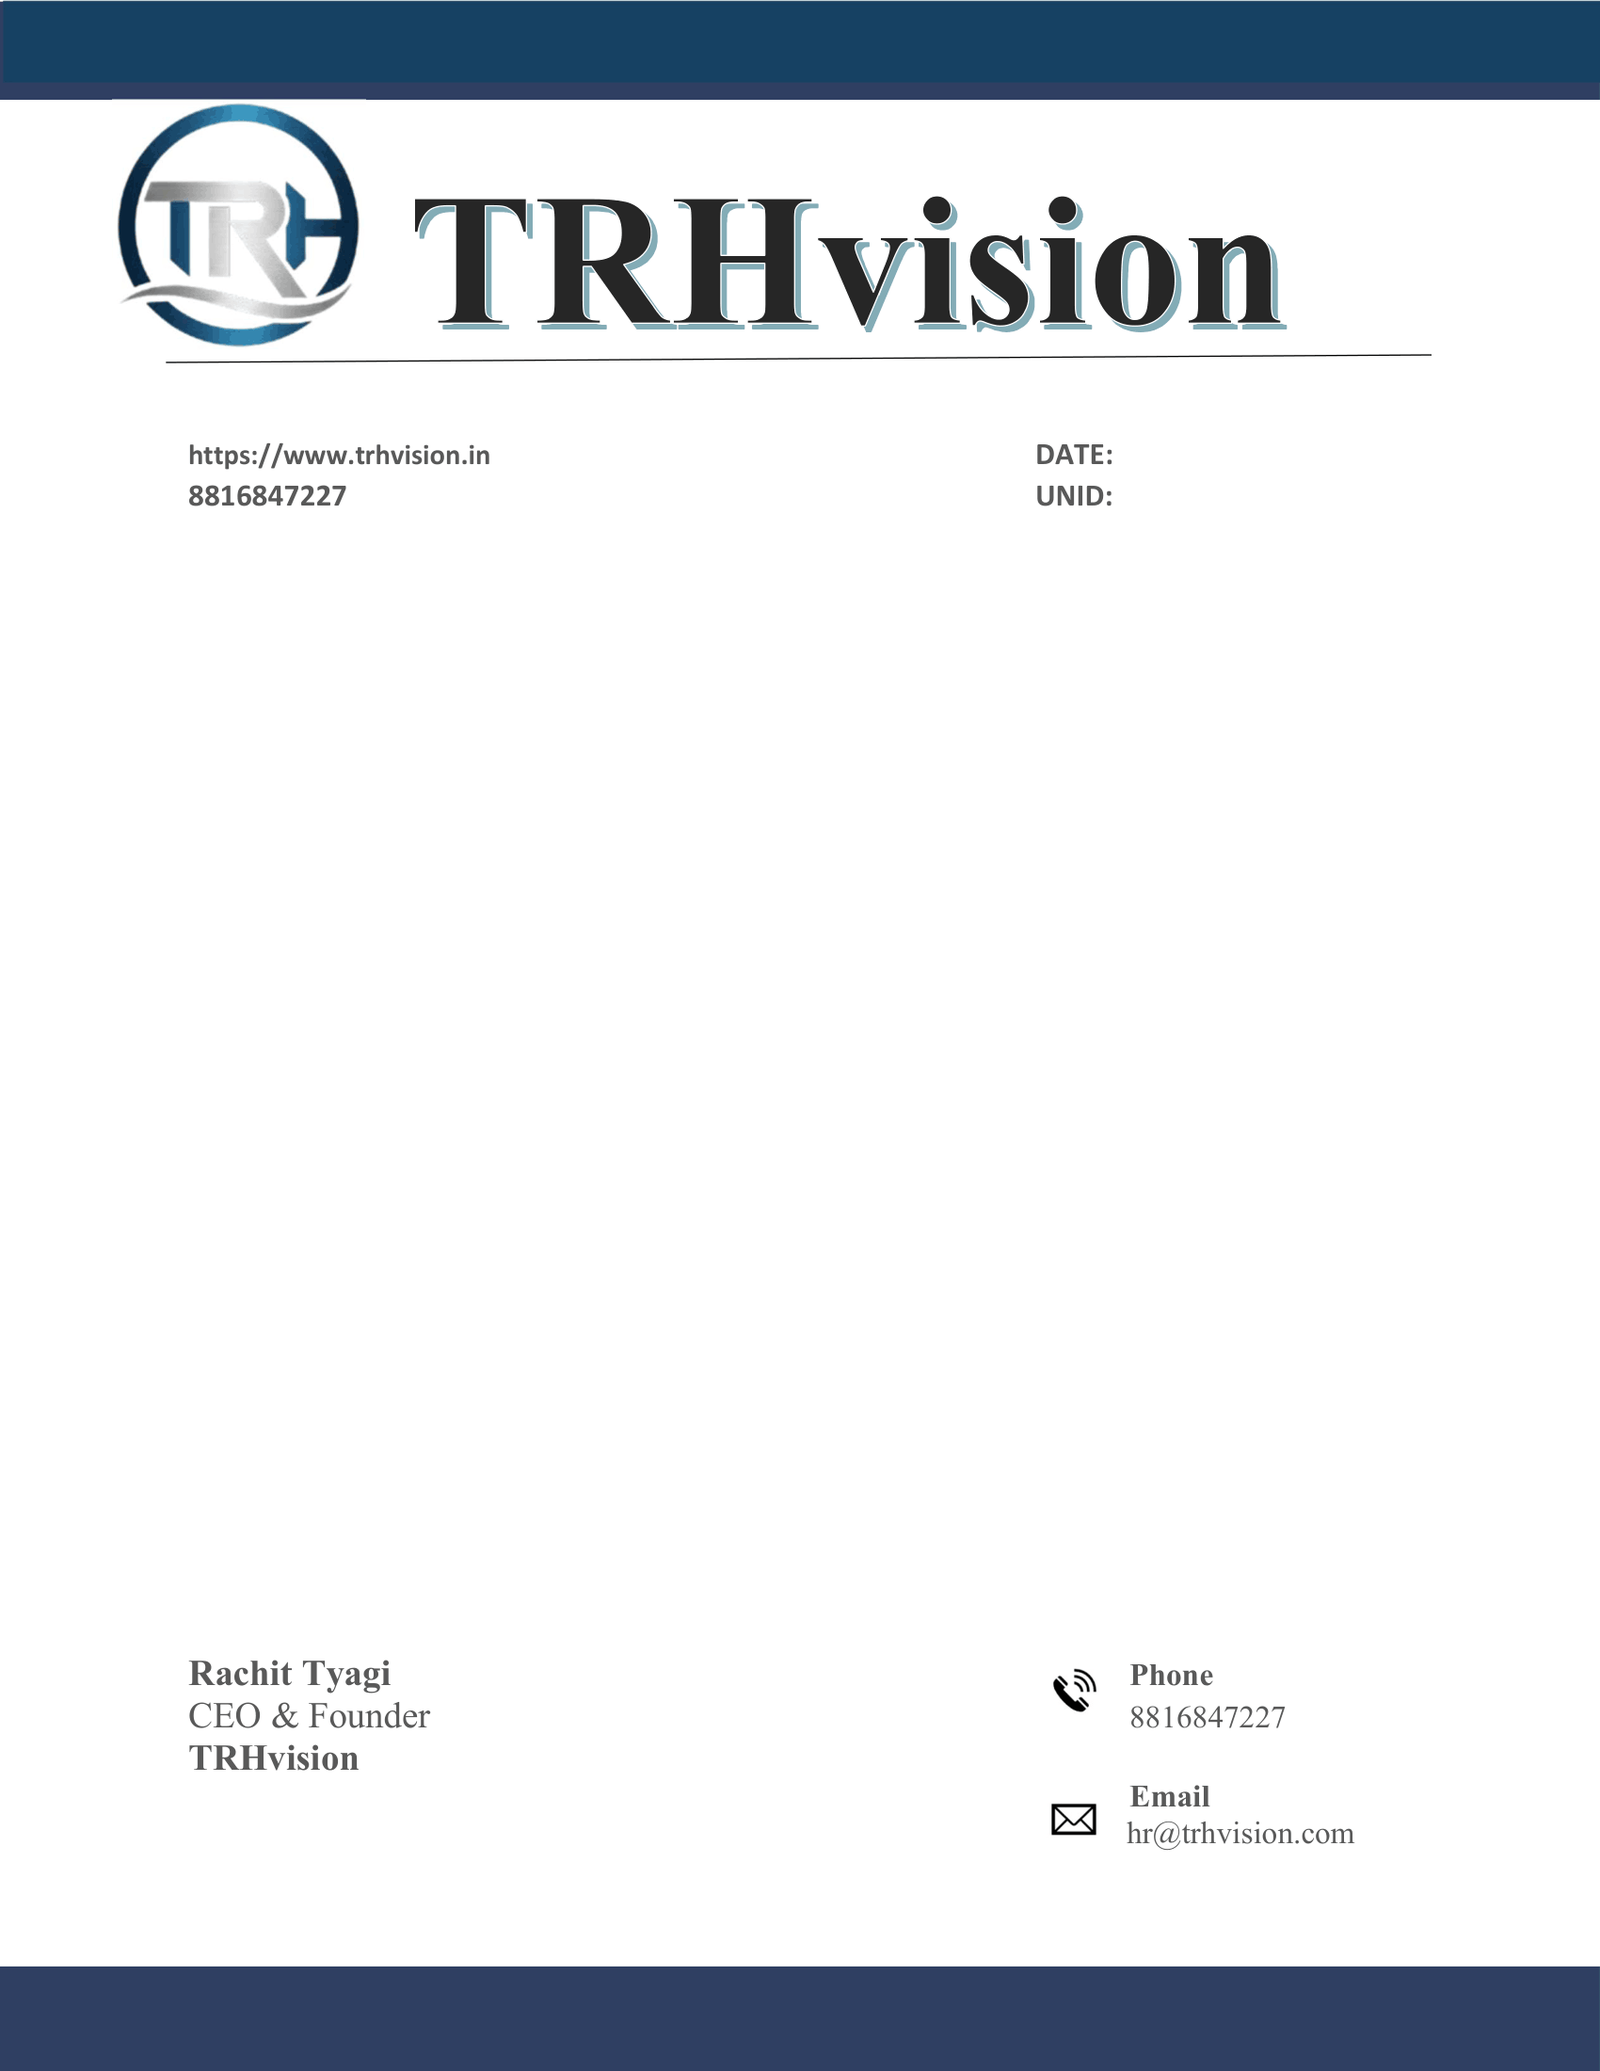
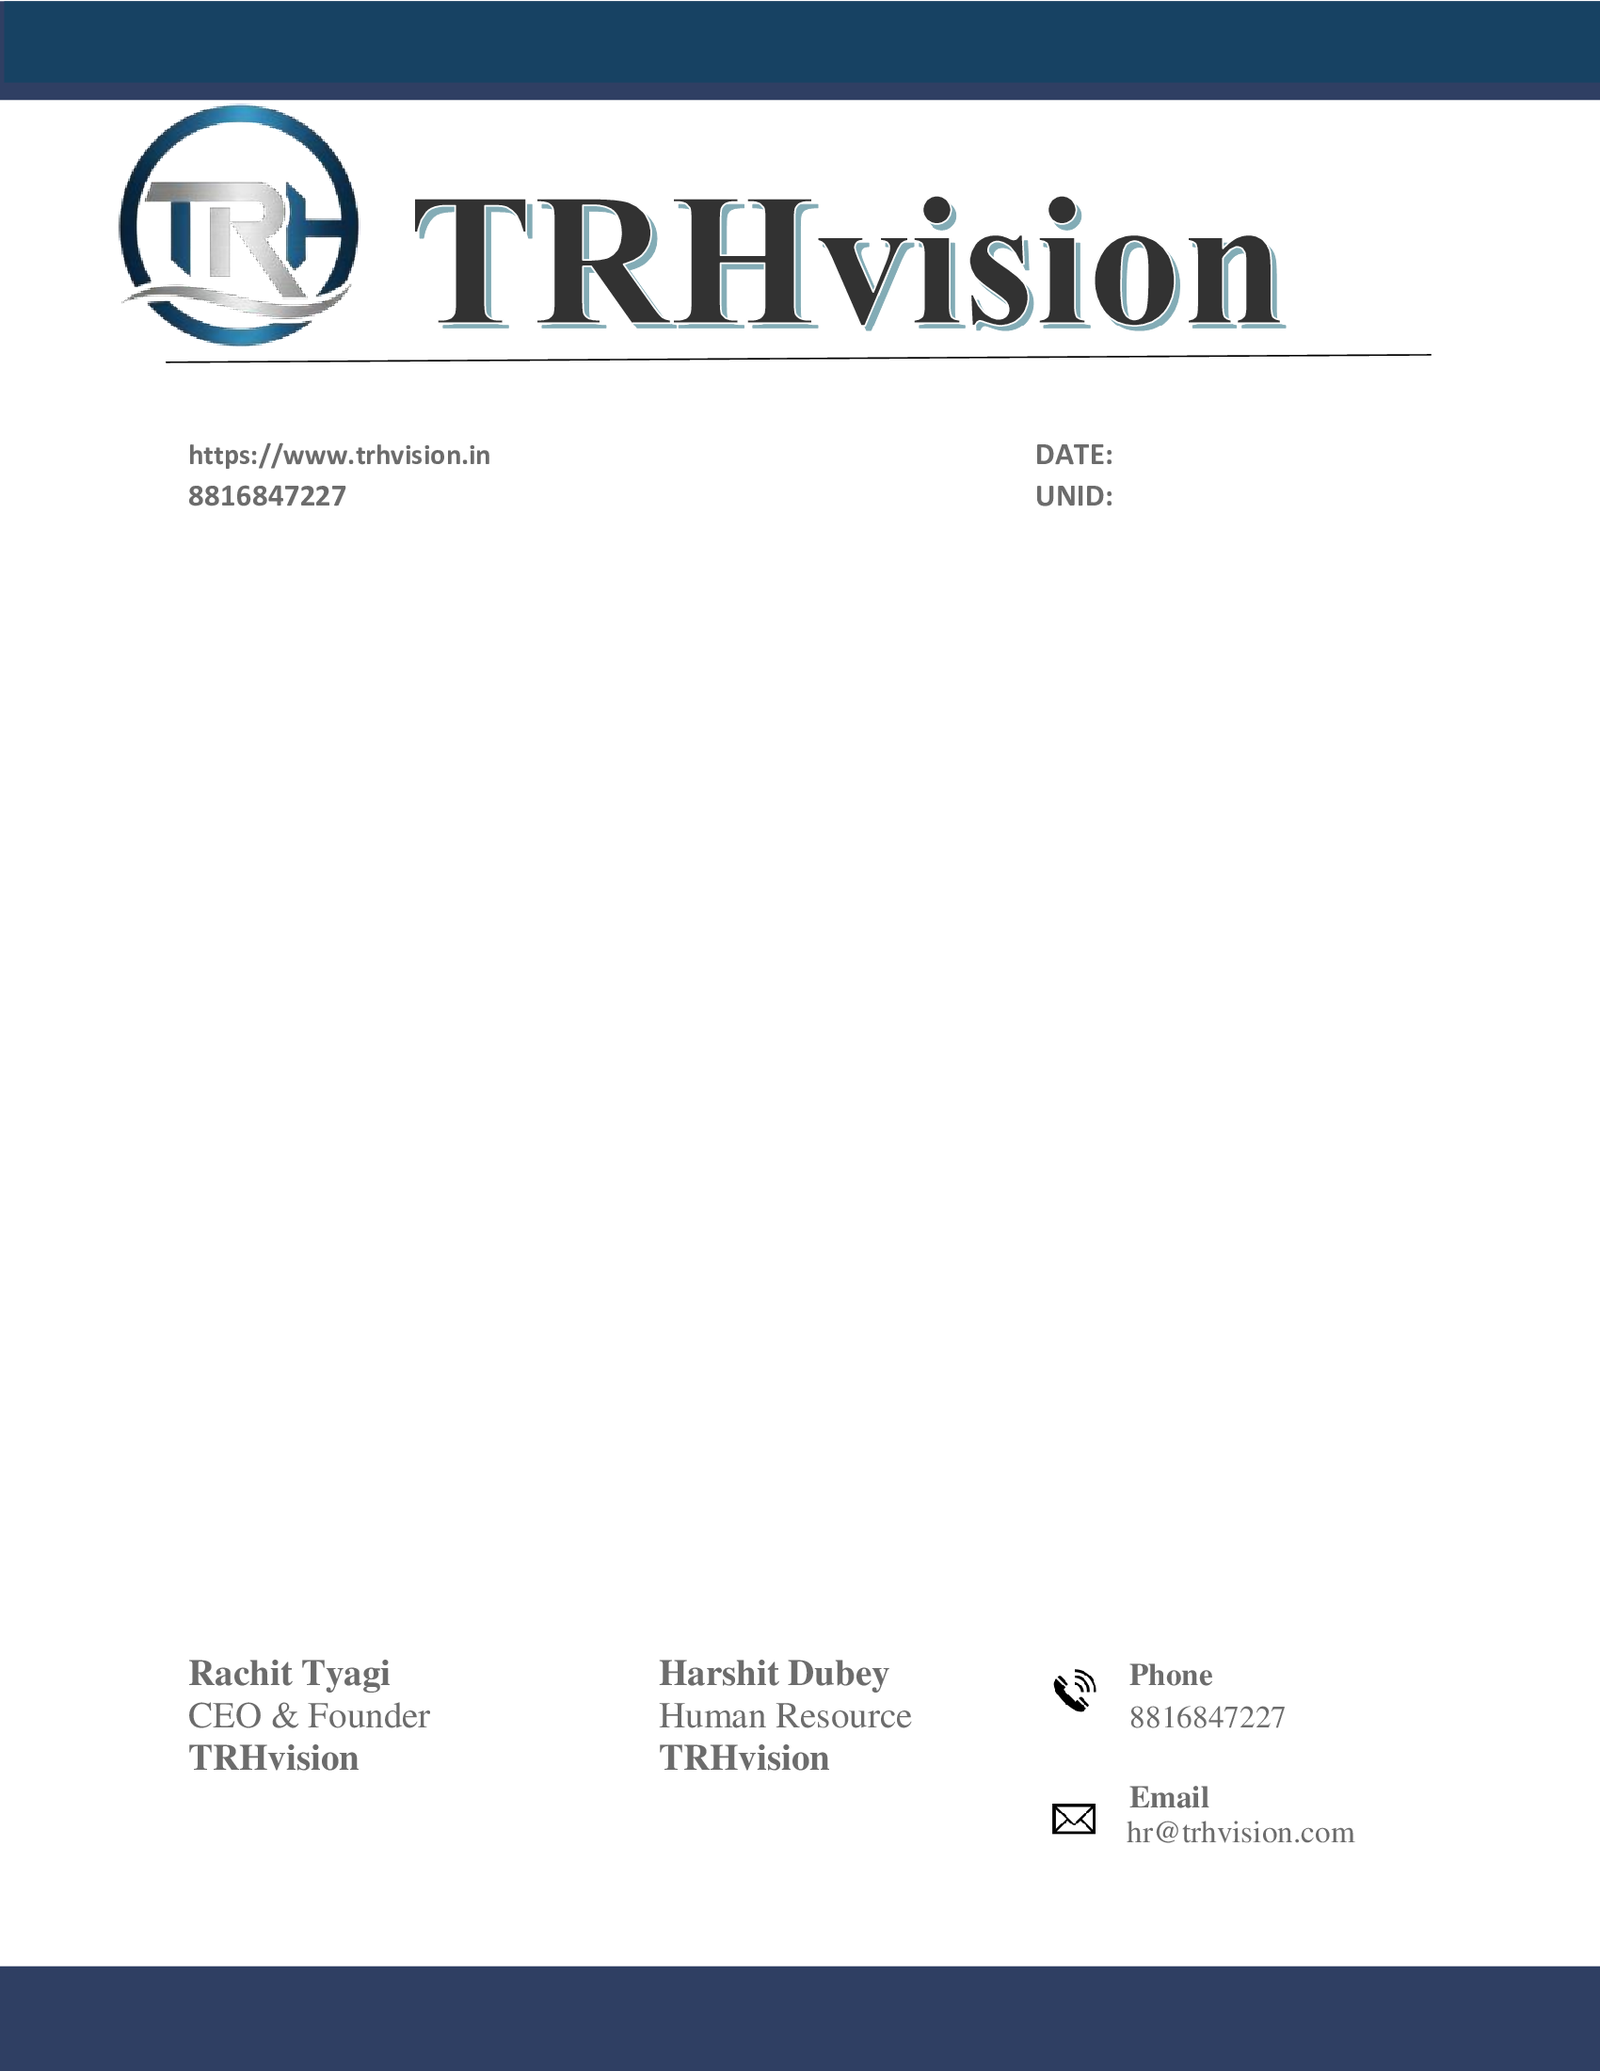
offer letter & signature unid, adjust signature position

diff --git a/vision/templates/vision/enroll_success.html b/vision/templates/vision/enroll_success.html
@@ -12,7 +12,7 @@
                     </div>
                     <h2 class="fw-bold mb-3">Enrollment Successful!</h2>
                     <p class="text-muted mb-4 lead">
-                        Thank you for registering with TRHvision Academy. <br>
+                        Thank you for registering with TRHvision. <br>
                         We have received your details and payment reference.
                     </p>
                     <div class="bg-light p-4 rounded-3 mb-4 text-start">
@@ -29,8 +29,10 @@
                     {% if enrollment %}
                     <div class="bg-light p-4 rounded-3 mb-4 text-start border-start border-4 border-orange">
                         <h6 class="fw-bold text-dark mb-1">Your Internship Offer Letter is Ready!</h6>
-                        <p class="text-muted small mb-3">As your payment has been successfully completed, you can download your official offer letter below.</p>
-                        <a href="{% url 'download_offer_letter_by_id' enrollment.id %}" target="_blank" class="btn btn-orange text-white rounded-pill px-4 btn-sm fw-bold">
+                        <p class="text-muted small mb-3">As your payment has been successfully completed, you can
+                            download your official offer letter below.</p>
+                        <a href="{% url 'download_offer_letter_by_id' enrollment.id %}" target="_blank"
+                            class="btn btn-orange text-white rounded-pill px-4 btn-sm fw-bold">
                             <i class="bi bi-download me-2"></i>Download Offer Letter
                         </a>
                     </div>

diff --git a/vision/templates/vision/dashboard.html b/vision/templates/vision/dashboard.html
@@ -166,7 +166,7 @@
     <aside class="sidebar d-flex flex-column">
         <a href="{% url 'index' %}" class="d-flex align-items-center gap-2 mb-5 text-decoration-none">
             <img src="{% static 'vision/image/logo.png' %}" alt="Logo" width="40" onerror="this.style.display='none'">
-            <span class="fs-4 fw-bold text-dark">TRHvision<span class="text-orange">.</span></span>
+            <span class="fs-4 fw-bold text-dark">TRHvision<span class="text-orange"></span></span>
         </a>
 
         <div class="mb-4">
@@ -409,7 +409,8 @@
                                 <div>
                                     <h6 class="fw-bold mb-1"><i
                                             class="bi bi-check-circle-fill text-success me-2"></i>Project Submitted</h6>
-                                    <small class="text-muted">Submitted on: {{ project.submission.submitted_at|date:"M d, Y" }}</small>
+                                    <small class="text-muted">Submitted on: {{ project.submission.submitted_at|date:"M
+                                        d, Y" }}</small>
                                 </div>
                                 <div>
                                     {% if project.submission.is_approved %}

diff --git a/vision/templates/vision/trh_admin_login.html b/vision/templates/vision/trh_admin_login.html
@@ -55,7 +55,7 @@
     <div class="login-card text-center">
         <div class="d-flex align-items-center justify-content-center gap-2 mb-4">
             <img src="{% static 'vision/image/logo.png' %}" alt="Logo" width="36" onerror="this.style.display='none'">
-            <span style="font-size:1.4rem;font-weight:800;color:#fff;">TRHvision<span style="color:#6366f1;">.</span></span>
+            <span style="font-size:1.4rem;font-weight:800;color:#fff;">TRHvision<span style="color:#6366f1;"></span></span>
         </div>
         <span class="admin-badge mb-4 d-inline-block">🛡 Admin Panel</span>
         <h5 class="text-white fw-bold mb-1">Admin Access</h5>

diff --git a/vision/templates/vision/career.html b/vision/templates/vision/career.html
@@ -675,7 +675,7 @@
     <footer class="bg-black text-white py-5 border-top border-secondary">
         <div class="container text-center">
             <p class="h4 mb-3">TRHvision<span class="text-orange"></span></p>
-            <p class="text-white-50 mb-1">📞 +91 9548684722 | 📧 support@trhvision.com</p>
+            <p class="text-white-50 mb-1">📞 +91 8816847227 | 📧 support@trhvision.com</p>
             <hr class="border-secondary my-4">
             <small class="text-white-50">© 2025 TRHvision Academy. All Rights Reserved.</small>
         </div>

diff --git a/vision/templates/vision/internship.html b/vision/templates/vision/internship.html
@@ -675,7 +675,7 @@
     <footer class="bg-black text-white py-5 border-top border-secondary">
         <div class="container text-center">
             <p class="h4 mb-3">TRHvision<span class="text-orange"></span></p>
-            <p class="text-white-50 mb-1">📞 +91 9548684722 | 📧 support@trhvision.com</p>
+            <p class="text-white-50 mb-1">📞 +91 8816847227 | 📧 support@trhvision.com</p>
             <hr class="border-secondary my-4">
             <small class="text-white-50">© 2025 TRHvision Academy. All Rights Reserved.</small>
         </div>

diff --git a/vision/templates/vision/base.html b/vision/templates/vision/base.html
@@ -94,7 +94,7 @@
                     <ul class="list-unstyled text-white-50">
                         <li class="mb-2"><i class="bi bi-geo-alt me-2"></i> Global HQ, India</li>
                         <li class="mb-2"><i class="bi bi-envelope me-2"></i> support@trhvision.com</li>
-                        <li class="mb-2"><i class="bi bi-phone me-2"></i> +91 9548684722</li>
+                        <li class="mb-2"><i class="bi bi-phone me-2"></i> +91 8816847227</li>
                     </ul>
                 </div>
             </div>

diff --git a/vision/views.py b/vision/views.py
@@ -724,6 +724,30 @@ except ImportError:
     qrcode_lib = None
 
 
+def _generate_unid(enrollment):
+    """Generate a consistent Unique ID from an Enrollment record.
+    Format: TRH-{domain_prefix}-{YYMM}-{zero_padded_id}
+    Example: TRH-DA-2606-001
+    """
+    from django.utils import timezone as tz
+    DOMAIN_PREFIX_MAP = {
+        'Artificial Intelligence': 'AI',
+        'Machine Learning': 'ML',
+        'Data Science': 'DS',
+        'Data Analytics': 'DA',
+        'Web Development': 'WD',
+        'Web development': 'WD',
+        'Power BI developer': 'PB',
+    }
+    domain_prefix = DOMAIN_PREFIX_MAP.get(enrollment.domain, enrollment.domain[:2].upper())
+    date_part = (
+        enrollment.created_at.strftime('%y%m')
+        if hasattr(enrollment, 'created_at') and enrollment.created_at
+        else tz.now().strftime('%y%m')
+    )
+    return f"TRH-{domain_prefix}-{date_part}-{enrollment.id:03d}"
+
+
 def _load_font(path, size):
     """Try to load a TrueType font, fall back to PIL default."""
     try:
@@ -740,7 +764,7 @@ def _draw_centered_text(draw, y, text, font, color, img_width):
     draw.text((x, y), text, font=font, fill=color)
 
 
-def _build_certificate_pdf(user, profile):
+def _build_certificate_pdf(user, profile, enrollment=None):
     """
     Draws student details directly onto TRJcertificate.png using Pillow,
     then saves the result as a single-page PDF.
@@ -777,9 +801,12 @@ def _build_certificate_pdf(user, profile):
     from django.utils import timezone
     issue_date   = timezone.now().strftime("%B %d, %Y")
 
+    # Use the same UNID from the offer letter if enrollment is available
+    cert_id = _generate_unid(enrollment) if enrollment else profile.student_id
+
     # ── 3. Draw text on the certificate ──────────────────────────────────
     # Cert ID — pushed right and slightly down (sweet spot)
-    draw.text((220, 40), f"Cert No: {profile.student_id}", font=font_small, fill=GRAY)
+    draw.text((220, 40), f"Cert No: {cert_id}", font=font_small, fill=GRAY)
 
     # Issue Date — top right corner, pushed left
     date_text = f"Issue Date: {issue_date}"
@@ -916,7 +943,7 @@ def _build_certificate_pdf(user, profile):
 
     # ── 4. Generate & paste QR code — bottom right, above footer ─────────
     qr = qrcode_lib.QRCode(version=1, box_size=8, border=3)
-    qr.add_data(f"https://trhvision.in/verify/{profile.student_id}")
+    qr.add_data(f"https://trhvision.in/verify/{cert_id}")
     qr.make(fit=True)
     qr_img  = qr.make_image(fill_color="black", back_color="white").convert('RGBA')
     qr_size = 160
@@ -941,7 +968,7 @@ def _build_certificate_pdf(user, profile):
     pdf_bytes = pdf_buffer.getvalue()
 
     # ── 6. Save to profile ────────────────────────────────────────────────
-    file_name = f"Certificate_{profile.student_id}.pdf"
+    file_name = f"Certificate_{cert_id}.pdf"
     profile.certificate.save(file_name, ContentFile(pdf_bytes), save=True)
 
     return pdf_bytes
@@ -1006,14 +1033,21 @@ def generate_certificate(request):
             messages.error(request, f"Please wait {3 - diff.days} more day(s) for verification before downloading your certificate.")
             return redirect('dashboard')
 
-    pdf_bytes = _build_certificate_pdf(request.user, profile)
+    # Look up the student's enrollment to use the same UNID as the offer letter
+    from .models import Enrollment
+    enrollment = Enrollment.objects.filter(email=request.user.email, is_paid=True).first()
+
+    pdf_bytes = _build_certificate_pdf(request.user, profile, enrollment=enrollment)
+
+    # Use the same UNID for the filename
+    cert_id = _generate_unid(enrollment) if enrollment else profile.student_id
 
     if pdf_bytes:
         response = HttpResponse(pdf_bytes, content_type='application/pdf')
         if request.GET.get('download') == 'true':
-            response['Content-Disposition'] = f'attachment; filename="Certificate_{profile.student_id}.pdf"'
+            response['Content-Disposition'] = f'attachment; filename="Certificate_{cert_id}.pdf"'
         else:
-            response['Content-Disposition'] = f'inline; filename="Certificate_{profile.student_id}.pdf"'
+            response['Content-Disposition'] = f'inline; filename="Certificate_{cert_id}.pdf"'
         return response
     return HttpResponse("Error generating certificate PDF.", status=500)
 
@@ -1066,8 +1100,8 @@ def _build_offer_letter_pdf(enrollment):
     # Format Date
     issue_date = enrollment.created_at.strftime("%B %d, %Y") if hasattr(enrollment, 'created_at') and enrollment.created_at else timezone.now().strftime("%B %d, %Y")
     
-    # UNID (use Enrollment ID with a custom format)
-    unid = f"TRH-{enrollment.domain[:2].upper()}-{enrollment.created_at.strftime('%y%m') if hasattr(enrollment, 'created_at') and enrollment.created_at else timezone.now().strftime('%y%m')}-{enrollment.id:03d}"
+    # UNID (use the shared helper for consistency with certificate)
+    unid = _generate_unid(enrollment)
 
     # 1. Fill in Date and UNID — aligned to exact label positions in TRHo-1.png
     # Template labels detected at: DATE y=482, UNID y=526, both ending at x≈1180
@@ -1200,26 +1234,47 @@ def _build_offer_letter_pdf(enrollment):
     y_cursor = draw_wrapped_text(draw, body_p5, 200, y_cursor, 1300, font_regular) + 22
     y_cursor = draw_wrapped_text(draw, body_p6, 200, y_cursor, 1300, font_regular) + 15
 
-    # 6. Warm regards + CEO signature (flows with content via y_cursor)
-    y_cursor += 130
+    # 6. Warm regards + CEO & HR signatures side by side (flows with content via y_cursor)
+    y_cursor += 125
     draw.text((200, y_cursor), "Warm regards,", font=font_regular, fill="#222222")
-    y_cursor += 110
+    y_cursor += 70
 
-    sig_path = os.path.join(settings.BASE_DIR, 'vision', 'static', 'vision', 'image', 'ceo_signature.png')
-    if os.path.exists(sig_path):
+    sig_y = y_cursor  # Track the signature row y position
+
+    # ── Fixed signature box size (same for both CEO and HR) ──
+    SIG_BOX_W = 200
+    SIG_BOX_H = 80
+
+    def paste_signature(img, path, x, y, box_w, box_h):
+        """Paste a signature image fitted into a fixed bounding box."""
+        if not os.path.exists(path):
+            return
         try:
-            sig_img = Image.open(sig_path).convert("RGBA")
+            sig_img = Image.open(path).convert("RGBA")
             alpha = sig_img.split()[-1]
             bbox = alpha.getbbox()
             if bbox:
                 sig_img = sig_img.crop(bbox)
             sig_w, sig_h = sig_img.size
-            new_w = 200
-            new_h = int(sig_h * (new_w / sig_w))
+            # Scale to fit within the box while preserving aspect ratio
+            scale = min(box_w / sig_w, box_h / sig_h)
+            new_w = int(sig_w * scale)
+            new_h = int(sig_h * scale)
             sig_img = sig_img.resize((new_w, new_h), Image.LANCZOS)
-            img.paste(sig_img, (200, y_cursor), sig_img)
+            # Center vertically within the box
+            offset_y = (box_h - new_h) // 2
+            img.paste(sig_img, (x, y + offset_y), sig_img)
         except Exception:
             pass
+
+    # ── CEO Signature (Left side) ──
+    ceo_sig_path = os.path.join(settings.BASE_DIR, 'vision', 'static', 'vision', 'image', 'ceo_signature.png')
+    paste_signature(img, ceo_sig_path, 200, sig_y, SIG_BOX_W, SIG_BOX_H)
+
+    # ── HR Signature (Right side) ──
+    hr_sig_x = int(W * 0.45)  # Shifted left
+    hr_sig_path = os.path.join(settings.BASE_DIR, 'vision', 'static', 'vision', 'image', 'HR signature.png')
+    paste_signature(img, hr_sig_path, hr_sig_x, sig_y, SIG_BOX_W, SIG_BOX_H)
 
     # Convert to RGB and save as single-page PDF
     img_rgb = img.convert('RGB')
@@ -2228,11 +2283,15 @@ def process_approved_enrollments():
                 }
                 normalized_domain = domain_mapping.get(enrollment.domain, enrollment.domain)
 
-                # Create profile
+                # Compute UNID from enrollment (same format as offer letter)
+                unid = f"TRH-{enrollment.domain[:2].upper()}-{enrollment.created_at.strftime('%y%m') if enrollment.created_at else timezone.now().strftime('%y%m')}-{enrollment.id:03d}"
+
+                # Create profile with the enrollment UNID as student_id
                 Profile.objects.create(
                     user=user,
                     Intren=normalized_domain,
-                    period=enrollment.duration
+                    period=enrollment.duration,
+                    student_id=unid
                 )
 
             # Generate PDF offer letter
